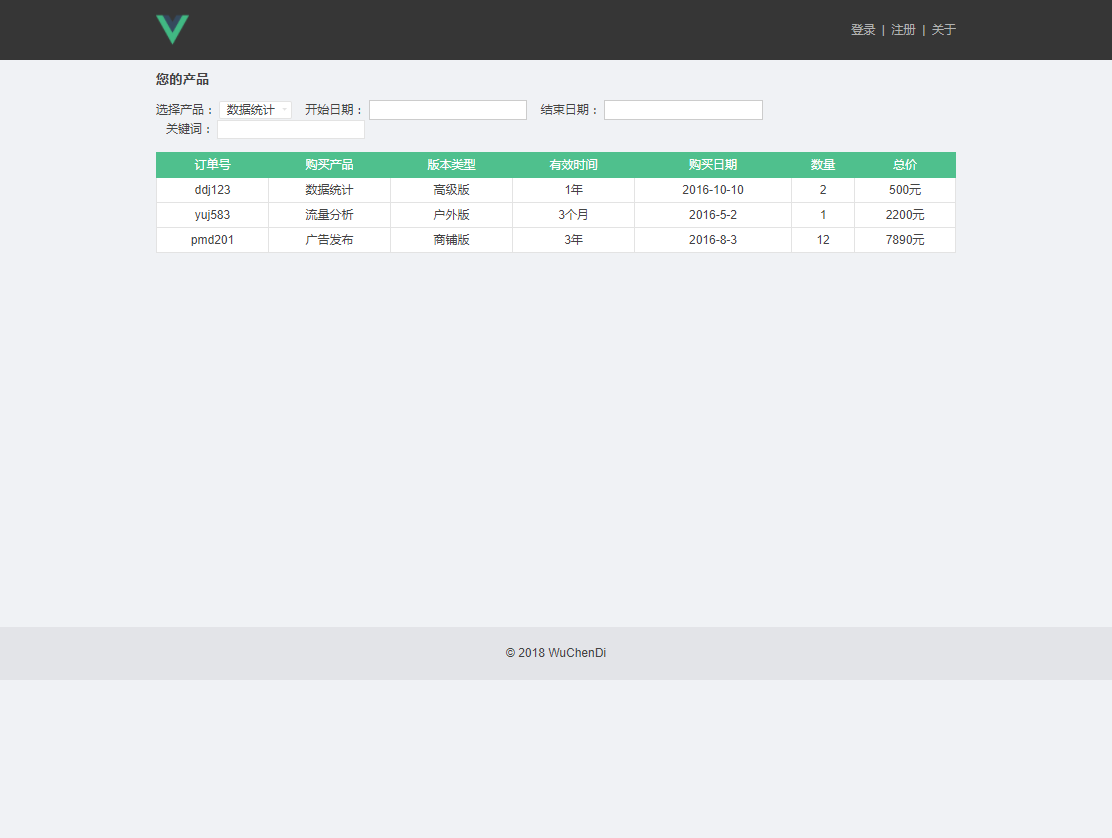
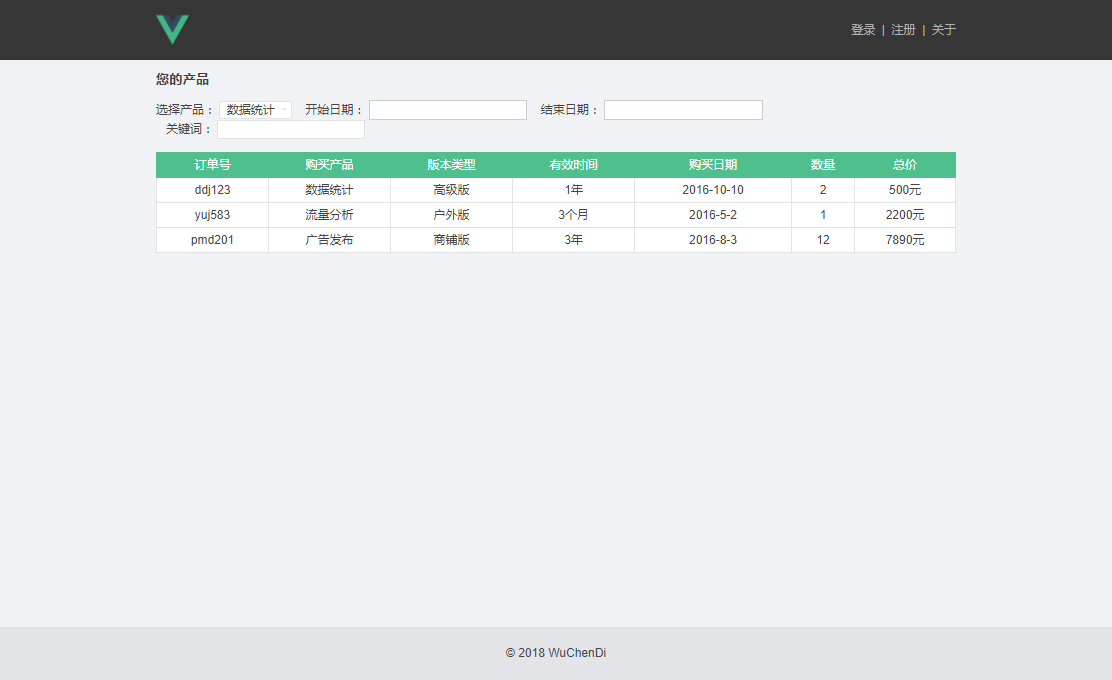
CHANGES

Changed region(s): [[0.0, 0.0, 1.0, 0.3706], [0.4586, 0.9574, 0.5504, 0.9882], [0.4586, 0.7721, 0.5504, 0.8029]]

diff --git a/README.md b/README.md
@@ -42,6 +42,6 @@ npm run dev
 <img src="https://github.com/WuChenDi/vue-shop/blob/master/screenshots/analysis.png" width="1182" height="892"/>
 <img src="https://github.com/WuChenDi/vue-shop/blob/master/screenshots/bankChooser.png" width="1182" height="892"/>
 <img src="https://github.com/WuChenDi/vue-shop/blob/master/screenshots/checkOrder.png" width="1182" height="892"/>
-<img src="https://github.com/WuChenDi/vue-shop/blob/master/screenshots/orderList.png" width="1182" height="892"/>
+<img src="https://github.com/WuChenDi/vue-shop/blob/master/screenshots/orderList.png" width="1182" height="680"/>
 
 
